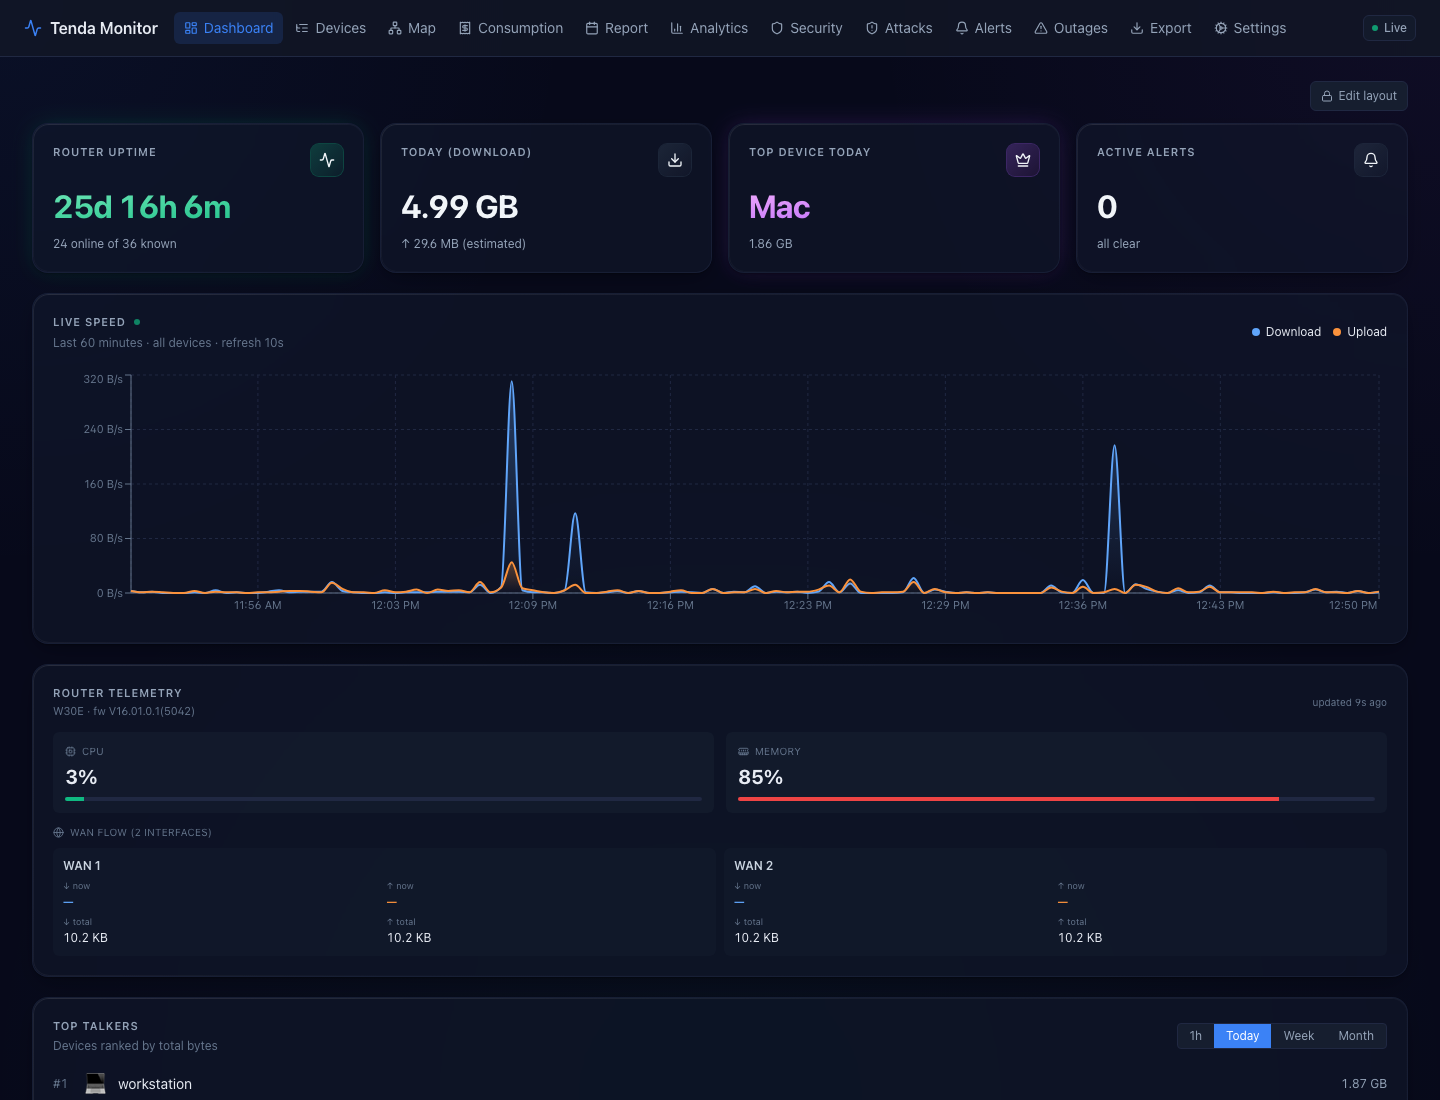
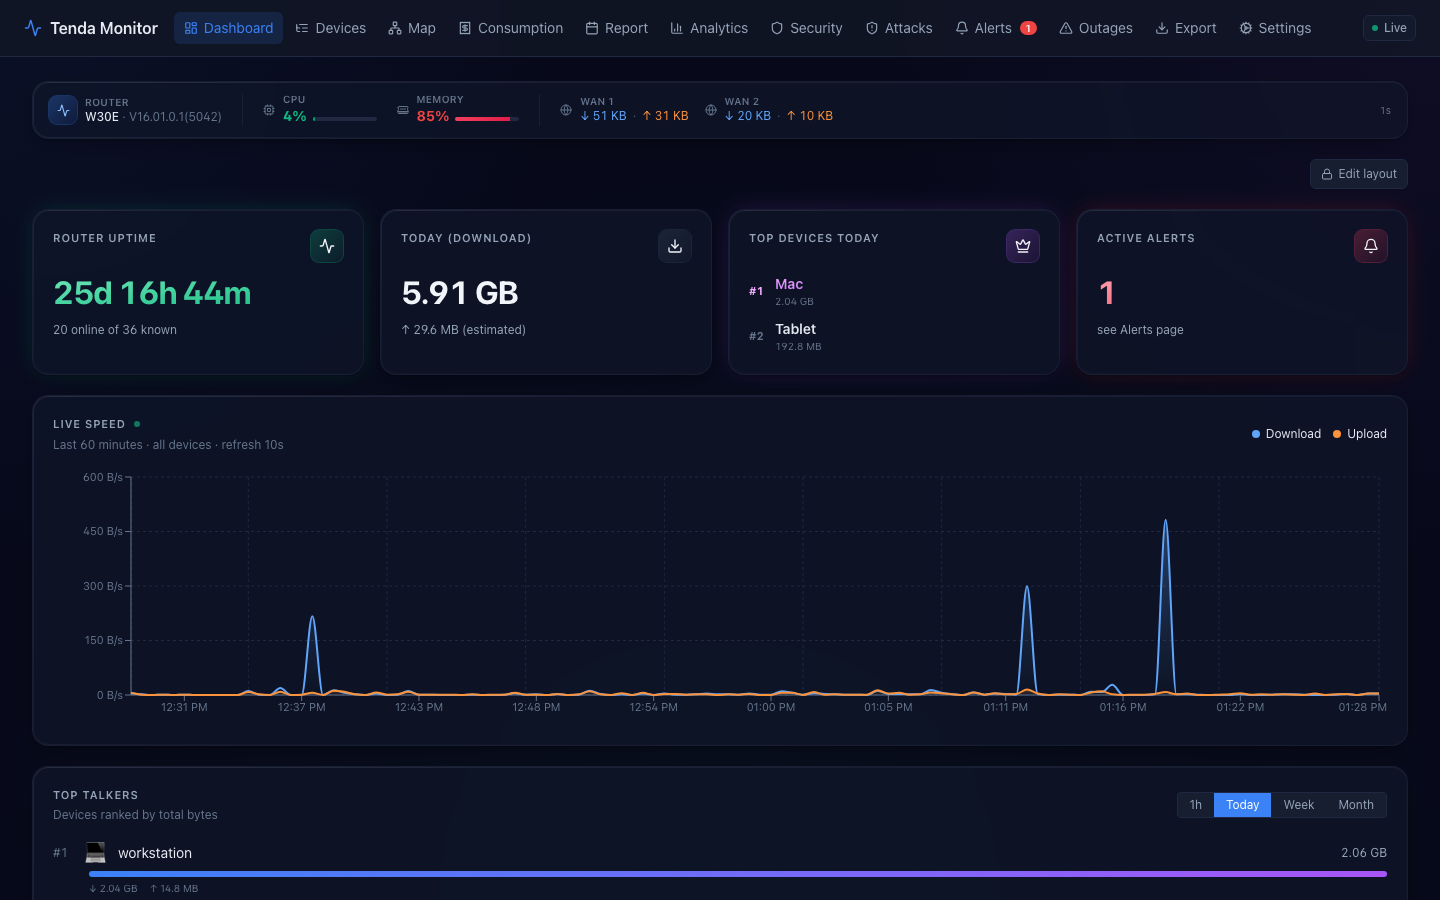
feat: telemetry bar + top-2 devices card
- Router telemetry moved from widget to compact horizontal bar above stats
- Stats card now shows top-2 devices today instead of just one
- top_device_2 added to /api/status via getRouterSnapshot

diff --git a/apps/web/components/TelemetryBar.tsx b/apps/web/components/TelemetryBar.tsx
@@ -1,0 +1,143 @@
+'use client';
+import useSWR from 'swr';
+import { fetcher } from '../lib/fetcher';
+import { Cpu, MemoryStick, Globe, Activity } from 'lucide-react';
+import { formatBytes, formatBps } from '../lib/format';
+
+interface Telemetry {
+  ts: number;
+  sysInfo: { cpuUsage?: number; memUsage?: number; firmware?: string; model?: string; raw: Record<string, any> };
+  wanFlow: Array<Record<string, any>>;
+}
+
+function getNum(o: Record<string, any> | undefined, ...keys: string[]): number | undefined {
+  if (!o) return undefined;
+  for (const k of keys) {
+    const v = o[k];
+    if (typeof v === 'number' && Number.isFinite(v)) return v;
+    if (typeof v === 'string') {
+      const n = parseFloat(v);
+      if (Number.isFinite(n)) return n;
+    }
+  }
+  return undefined;
+}
+
+function toneFor(pct: number | undefined): string {
+  if (pct === undefined) return 'text-slate-400';
+  if (pct > 80) return 'text-accent-red';
+  if (pct > 50) return 'text-accent-amber';
+  return 'text-accent-green';
+}
+
+function gradientFor(pct: number | undefined): string {
+  if (pct === undefined) return 'from-slate-600 to-slate-700';
+  if (pct > 80) return 'from-rose-500 to-rose-600';
+  if (pct > 50) return 'from-amber-500 to-amber-600';
+  return 'from-emerald-500 to-emerald-600';
+}
+
+export function TelemetryBar() {
+  const { data } = useSWR<{ telemetry: Telemetry | null }>('/api/telemetry', fetcher, { refreshInterval: 10000 });
+  const t = data?.telemetry;
+  if (!t) return null;
+
+  const cpu = t.sysInfo.cpuUsage;
+  const mem = t.sysInfo.memUsage;
+  const wans = t.wanFlow;
+
+  return (
+    <div className="card px-3 sm:px-4 py-2.5 sm:py-3 animate-fade-in mb-4 sm:mb-5">
+      <div className="flex items-center gap-3 sm:gap-5 flex-wrap">
+        {/* Identity */}
+        <div className="flex items-center gap-2 shrink-0">
+          <div className="w-7 h-7 rounded-lg bg-gradient-to-br from-blue-500/30 to-blue-700/10 ring-1 ring-blue-500/30 flex items-center justify-center">
+            <Activity size={13} className="text-blue-300" />
+          </div>
+          <div className="min-w-0">
+            <div className="text-[10px] uppercase tracking-wide text-slate-500 font-semibold leading-none">Router</div>
+            <div className="text-xs text-slate-200 font-medium leading-tight mt-0.5 truncate">
+              {t.sysInfo.model || 'Tenda'} <span className="text-slate-500 font-normal">· {t.sysInfo.firmware || '?'}</span>
+            </div>
+          </div>
+        </div>
+
+        <div className="hidden sm:block w-px h-8 bg-bg-border/60" />
+
+        {/* CPU */}
+        <div className="flex items-center gap-2 shrink-0">
+          <Cpu size={12} className="text-slate-500" />
+          <div>
+            <div className="text-[10px] uppercase tracking-wide text-slate-500 font-semibold leading-none">CPU</div>
+            <div className="flex items-baseline gap-1.5 mt-0.5">
+              <span className={`text-sm font-bold tabular-nums ${toneFor(cpu)}`}>
+                {cpu !== undefined ? `${cpu.toFixed(0)}%` : '—'}
+              </span>
+              {cpu !== undefined && (
+                <div className="w-12 sm:w-16 h-1 bg-bg-border rounded overflow-hidden">
+                  <div
+                    className={`h-full bg-gradient-to-r ${gradientFor(cpu)}`}
+                    style={{ width: `${Math.min(100, cpu)}%` }}
+                  />
+                </div>
+              )}
+            </div>
+          </div>
+        </div>
+
+        {/* Memory */}
+        <div className="flex items-center gap-2 shrink-0">
+          <MemoryStick size={12} className="text-slate-500" />
+          <div>
+            <div className="text-[10px] uppercase tracking-wide text-slate-500 font-semibold leading-none">Memory</div>
+            <div className="flex items-baseline gap-1.5 mt-0.5">
+              <span className={`text-sm font-bold tabular-nums ${toneFor(mem)}`}>
+                {mem !== undefined ? `${mem.toFixed(0)}%` : '—'}
+              </span>
+              {mem !== undefined && (
+                <div className="w-12 sm:w-16 h-1 bg-bg-border rounded overflow-hidden">
+                  <div
+                    className={`h-full bg-gradient-to-r ${gradientFor(mem)}`}
+                    style={{ width: `${Math.min(100, mem)}%` }}
+                  />
+                </div>
+              )}
+            </div>
+          </div>
+        </div>
+
+        {/* WAN flow */}
+        {wans.length > 0 && (
+          <>
+            <div className="hidden md:block w-px h-8 bg-bg-border/60" />
+            <div className="flex items-center gap-3 sm:gap-4 shrink-0 flex-wrap">
+              {wans.map((w, i) => {
+                const dlMB = getNum(w, 'FlowDownstream', 'downMB');
+                const ulMB = getNum(w, 'FlowUpstream', 'upMB');
+                const dlBytes = dlMB !== undefined ? dlMB * 1024 * 1024 : getNum(w, 'downBytes', 'rxBytes');
+                const ulBytes = ulMB !== undefined ? ulMB * 1024 * 1024 : getNum(w, 'upBytes', 'txBytes');
+                return (
+                  <div key={i} className="flex items-center gap-2">
+                    <Globe size={12} className="text-slate-500" />
+                    <div>
+                      <div className="text-[10px] uppercase tracking-wide text-slate-500 font-semibold leading-none">WAN {i + 1}</div>
+                      <div className="flex items-baseline gap-1.5 mt-0.5 text-xs tabular-nums">
+                        <span className="text-blue-400">↓ {dlBytes !== undefined ? formatBytes(dlBytes, 0) : '—'}</span>
+                        <span className="text-slate-600">·</span>
+                        <span className="text-orange-400">↑ {ulBytes !== undefined ? formatBytes(ulBytes, 0) : '—'}</span>
+                      </div>
+                    </div>
+                  </div>
+                );
+              })}
+            </div>
+          </>
+        )}
+
+        <div className="ml-auto text-[10px] text-slate-500 tabular-nums shrink-0">
+          {Math.round((Date.now() - t.ts) / 1000)}s
+        </div>
+      </div>
+    </div>
+  );
+}

diff --git a/apps/web/components/Dashboard.tsx b/apps/web/components/Dashboard.tsx
@@ -13,9 +13,11 @@ import { CategoryBreakdown } from './CategoryBreakdown';
 import { ConcurrentChart } from './ConcurrentChart';
 import { AnomaliesCard } from './AnomaliesCard';
 import { TelemetryCard } from './TelemetryCard';
+import { TelemetryBar } from './TelemetryBar';
 import { formatBytes, formatDuration } from '../lib/format';
 import { Activity, Download, Bell, Crown, GripVertical, RotateCcw, Lock, Unlock } from 'lucide-react';
 
+interface TopDevice { mac: string; label: string; bytes_down: number }
 interface Status {
   connected: boolean;
   uptime_sec: number;
@@ -23,13 +25,14 @@ interface Status {
   total_devices: number;
   bytes_today_down: number;
   bytes_today_up: number;
-  top_device: { mac: string; label: string; bytes_down: number } | null;
+  top_device: TopDevice | null;
+  top_device_2: TopDevice | null;
   alerts: number;
 }
 
-type WidgetId = 'stats' | 'live-speed' | 'telemetry' | 'top-talkers' | 'category' | 'concurrent' | 'anomalies' | 'devices';
+type WidgetId = 'stats' | 'live-speed' | 'top-talkers' | 'category' | 'concurrent' | 'anomalies' | 'devices';
 
-const DEFAULT_ORDER: WidgetId[] = ['stats', 'live-speed', 'telemetry', 'top-talkers', 'category', 'concurrent', 'anomalies', 'devices'];
+const DEFAULT_ORDER: WidgetId[] = ['stats', 'live-speed', 'top-talkers', 'category', 'concurrent', 'anomalies', 'devices'];
 const STORAGE_KEY = 'tenda.dashboardOrder.v1';
 const EDIT_KEY = 'tenda.dashboardEdit.v1';
 
@@ -53,7 +56,6 @@ function loadOrder(): WidgetId[] {
 const WIDGET_LABELS: Record<WidgetId, string> = {
   stats: 'Status cards',
   'live-speed': 'Live speed',
-  telemetry: 'Router telemetry',
   'top-talkers': 'Top talkers',
   category: 'Traffic by category',
   concurrent: 'Concurrent devices',
@@ -140,13 +142,7 @@ export function Dashboard() {
               hint={`↑ ${formatBytes(status?.bytes_today_up ?? 0)} (estimated)`}
               icon={<Download size={16} />}
             />
-            <StatCard
-              label="Top device today"
-              value={status?.top_device ? status.top_device.label : '—'}
-              hint={status?.top_device ? formatBytes(status.top_device.bytes_down) : 'no traffic yet'}
-              icon={<Crown size={16} />}
-              tone="purple"
-            />
+            <TopDevicesCard top={status?.top_device ?? null} second={status?.top_device_2 ?? null} />
             <StatCard
               label="Active alerts"
               value={status?.alerts ?? 0}
@@ -158,8 +154,6 @@ export function Dashboard() {
         );
       case 'live-speed':
         return <LiveSpeedChart />;
-      case 'telemetry':
-        return <TelemetryCard />;
       case 'top-talkers':
         return <TopTalkers />;
       case 'category':
@@ -178,6 +172,7 @@ export function Dashboard() {
       <UpdateBanner />
       <NsfwBanner />
       <AlertBanner />
+      <TelemetryBar />
 
       {/* Edit toolbar */}
       <div className="flex items-center justify-end gap-2 -mb-2">
@@ -234,6 +229,42 @@ export function Dashboard() {
           </div>
         );
       })}
+    </div>
+  );
+}
+
+function TopDevicesCard({ top, second }: { top: TopDevice | null; second: TopDevice | null }) {
+  return (
+    <div className="card p-4 sm:p-5 flex flex-col gap-3 animate-fade-in transition-all hover:-translate-y-0.5 glow-purple">
+      <div className="flex items-start justify-between gap-2">
+        <div className="stat-label truncate">Top devices today</div>
+        <div className="shrink-0 w-8 h-8 rounded-lg bg-gradient-to-br from-purple-500/25 to-fuchsia-700/10 ring-1 ring-purple-500/30 flex items-center justify-center">
+          <Crown size={16} className="text-slate-100" />
+        </div>
+      </div>
+      <div className="space-y-2.5">
+        {[top, second].map((d, i) =>
+          d ? (
+            <div key={d.mac} className="flex items-center gap-2.5">
+              <span className={`text-[11px] font-bold tabular-nums w-4 ${i === 0 ? 'text-fuchsia-300' : 'text-slate-500'}`}>#{i + 1}</span>
+              <div className="min-w-0 flex-1">
+                <div className={`text-sm font-semibold truncate ${i === 0 ? 'bg-gradient-to-br from-fuchsia-300 to-purple-500 bg-clip-text text-transparent' : 'text-slate-200'}`}>
+                  {d.label}
+                </div>
+                <div className="text-[10px] text-slate-500 tabular-nums">{formatBytes(d.bytes_down)}</div>
+              </div>
+            </div>
+          ) : (
+            <div key={`empty-${i}`} className="flex items-center gap-2.5 opacity-40">
+              <span className="text-[11px] font-bold tabular-nums w-4 text-slate-600">#{i + 1}</span>
+              <div className="min-w-0 flex-1">
+                <div className="text-sm text-slate-500">—</div>
+                <div className="text-[10px] text-slate-600">no traffic</div>
+              </div>
+            </div>
+          ),
+        )}
+      </div>
     </div>
   );
 }

diff --git a/apps/web/lib/queries.ts b/apps/web/lib/queries.ts
@@ -30,6 +30,7 @@ export interface RouterSnapshot {
   bytes_today_down: number;
   bytes_today_up: number;
   top_device: { mac: string; label: string; bytes_down: number } | null;
+  top_device_2: { mac: string; label: string; bytes_down: number } | null;
   alerts_undismissed: number;
 }
 
@@ -103,13 +104,18 @@ export function getRouterSnapshot(): RouterSnapshot {
       SELECT mac, bytes_down FROM traffic_5min WHERE bucket_ts >= ?
       UNION ALL
       SELECT mac, bytes_down FROM traffic_hour WHERE bucket_ts >= ?
-    ) GROUP BY mac ORDER BY bd DESC LIMIT 1
-  `).get(startOfDay, startOfDay) as { mac: string; bd: number } | undefined;
+    ) GROUP BY mac ORDER BY bd DESC LIMIT 2
+  `).all(startOfDay, startOfDay) as Array<{ mac: string; bd: number }>;
 
   let topDevice = null as RouterSnapshot['top_device'];
-  if (topToday) {
-    const d = conn.prepare(`SELECT mac, COALESCE(custom_label, hostname, mac) AS label FROM devices WHERE mac = ?`).get(topToday.mac) as { mac: string; label: string };
-    topDevice = { mac: d.mac, label: d.label, bytes_down: topToday.bd };
+  let topDevice2 = null as RouterSnapshot['top_device'];
+  if (topToday[0]) {
+    const d = conn.prepare(`SELECT mac, COALESCE(custom_label, hostname, mac) AS label FROM devices WHERE mac = ?`).get(topToday[0].mac) as { mac: string; label: string };
+    topDevice = { mac: d.mac, label: d.label, bytes_down: topToday[0].bd };
+  }
+  if (topToday[1]) {
+    const d = conn.prepare(`SELECT mac, COALESCE(custom_label, hostname, mac) AS label FROM devices WHERE mac = ?`).get(topToday[1].mac) as { mac: string; label: string };
+    topDevice2 = { mac: d.mac, label: d.label, bytes_down: topToday[1].bd };
   }
 
   const counts = conn.prepare(`
@@ -126,6 +132,7 @@ export function getRouterSnapshot(): RouterSnapshot {
     bytes_today_down: Number(todayTotals.bytes_down ?? 0),
     bytes_today_up: Number(todayTotals.bytes_up ?? 0),
     top_device: topDevice,
+    top_device_2: topDevice2,
     alerts_undismissed: counts.alerts,
   };
 }

diff --git a/apps/web/app/api/status/route.ts b/apps/web/app/api/status/route.ts
@@ -17,5 +17,6 @@ export async function GET() {
     bytes_today_down: snap.bytes_today_down,
     bytes_today_up: snap.bytes_today_up,
     top_device: snap.top_device,
+    top_device_2: snap.top_device_2,
   });
 }